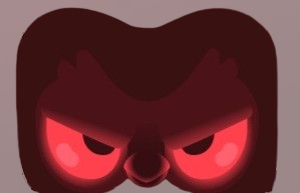
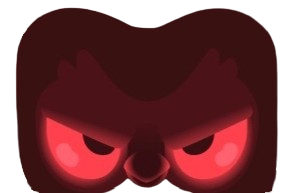
asdfghj

Changed region(s): [[0.0, 0.0, 1.0, 1.0], [0.33, 0.9016, 0.66, 1.0]]

diff --git a/duolingo/scary-duo.css b/duolingo/scary-duo.css
@@ -129,20 +129,21 @@ span {
     background-color: rgb(69, 22, 25);
 }
 
-@keyframes diagonalMove {
+@keyframes appear {
   from {
-    transform: translateY(100px);
     opacity: 0;
+    scale: 0.2;
   }
   to {
-    transform: translateY(0);
     opacity: 1;
+    scale: 1.5;
   }
 }
 
 .gradient-three img {
-  animation: 1s diagonalMove;
-  animation-timeline: view(inline-block 100% 0%);
+  animation: appear linear;
+  animation-timeline: view();
+  animation-range: entry 0% cover 100%;
 }
 
 
@@ -167,72 +168,72 @@ span {
     top: 1200px;
     left: 400px;
 }
-.gradient-five .one:hover {
+/* .gradient-five .one:hover {
     height: 20px;
-}
+} */
 .gradient-five .two {
     position: relative;
     height: 90px;
     left: 200px;
     top: 300px;
 }
-.gradient-five .two:hover {
+/* .gradient-five .two:hover {
     height: 10px;
-}
+} */
 .three {
     position: relative;
     height: 20px;
     top: 1400px;
     left: 930px;
 }
-.three:hover {
+/* .three:hover {
     height: 10px;
-}
+} */
 .four {
     position: relative;
     height: 100px;
     top: 700px;
     left: 600px;
 }
-.four:hover {
+/* .four:hover {
     height: 70px;
-}
+} */
 .five {
     position: relative;
     height: 60px;
     top: 200px;
     left: 300px;
 }
-.five:hover {
+/* .five:hover {
     height: 40px;
-}
+} */
 .six {
     position: relative;
     height: 40px;
     top: 600px;
     left: 50px;
 }
-.six:hover {
+/* .six:hover {
     height: 20px;
-}
+} */
 .seven {
     position: relative;
     height: 170px;
     top: 1000px;
     left: 500px;
 }
-.seven:hover {
+/* .seven:hover {
     height: 140px;
-}
+} */
 .eight {
     position: relative;
     height: 90px;
     top: 1100px;
     left: 0px;
 }
-.eight:hover {
+/* .eight:hover {
     height: 70px;
-}
+} */
 .nine {
     position: relative;
     height: 20px;
@@ -240,18 +241,18 @@ span {
     left: 150px;
 
 }
-.nine:hover {
+/* .nine:hover {
     height: 10px;
-}
+} */
 .ten {
     position: relative;
     height: 40px;
     top: 760px;
     right: 900px;
 }
-.ten:hover {
+/* .ten:hover {
     height: 20px;
-}
+} */
 .eleven {
     position: relative;
     height: 130px;
@@ -259,9 +260,9 @@ span {
     left: 250px;
 
 }
-.eleven:hover {
+/* .eleven:hover {
     height: 100px;
-}
+} */
 .twelve {
     position: relative;
     height: 200px;
@@ -269,35 +270,43 @@ span {
     right: 5px;
 
 }
-.twelve:hover {
+/* .twelve:hover {
     height: 160px;
-}
+} */
 .thirteen {
     position: relative;
     height: 50px;
     top: 450px;
     left: 50px;
 }
-.thirteen:hover {
+/* .thirteen:hover {
     height: 30px;
-}
+} */
 .fourteen {
     position: relative;
     height: 70px;
     top: 950px;
     right: 1300px;
 }
-.fourteen:hover {
+/* .fourteen:hover {
     height: 50px;
-}
+} */
 .fifteen {
     position: relative;
     height: 20px;
     top: 630px;
     left: 700px;
 }
-.fifteen:hover {
+/* .fifteen:hover {
     height: 10px;
+} */
+
+.eye {
+    transition: 150ms ease;
+}
+
+.eye:hover {
+    scale: 0.4;
 }
 
 .button {

diff --git a/duolingo/scary-duo.html b/duolingo/scary-duo.html
@@ -43,21 +43,21 @@
     <div class="gradient-three"><img src="images/duo-scary.png" alt=""></div>
     <div class="gradient-four"><h1>do better. i'm watching</h1></div>
     <div class="gradient-five">
-        <img class="one" src="images/eyes.png" alt="">
-        <img class="two" src="images/eyes.png" alt="">
-        <img class="three" src="images/eyes.png" alt="">
-        <img class="four" src="images/eyes.png" alt="">
-        <img class="five" src="images/eyes.png" alt="">
-        <img class="six" src="images/eyes.png" alt="">
-        <img class="seven" src="images/eyes.png" alt="">
-        <img class="eight" src="images/eyes.png" alt="">
-        <img class="nine" src="images/eyes.png" alt="">
-        <img class="ten" src="images/eyes.png" alt="">
-        <img class="eleven" src="images/eyes.png" alt="">
-        <img class="twelve" src="images/eyes.png" alt="">
-        <img class="thirteen" src="images/eyes.png" alt="">
-        <img class="fourteen" src="images/eyes.png" alt="">
-        <img class="fifteen" src="images/eyes.png" alt="">
+        <img class="eye one" src="images/eyes.png" alt="">
+        <img class="eye two" src="images/eyes.png" alt="">
+        <img class="eye three" src="images/eyes.png" alt="">
+        <img class="eye four" src="images/eyes.png" alt="">
+        <img class="eye five" src="images/eyes.png" alt="">
+        <img class="eye six" src="images/eyes.png" alt="">
+        <img class="eye seven" src="images/eyes.png" alt="">
+        <img class="eye eight" src="images/eyes.png" alt="">
+        <img class="eye nine" src="images/eyes.png" alt="">
+        <img class="eye ten" src="images/eyes.png" alt="">
+        <img class="eye eleven" src="images/eyes.png" alt="">
+        <img class="eye twelve" src="images/eyes.png" alt="">
+        <img class="eye thirteen" src="images/eyes.png" alt="">
+        <img class="eye fourteen" src="images/eyes.png" alt="">
+        <img class="eye fifteen" src="images/eyes.png" alt="">
     </div>
 
     <div id="footer-two">
